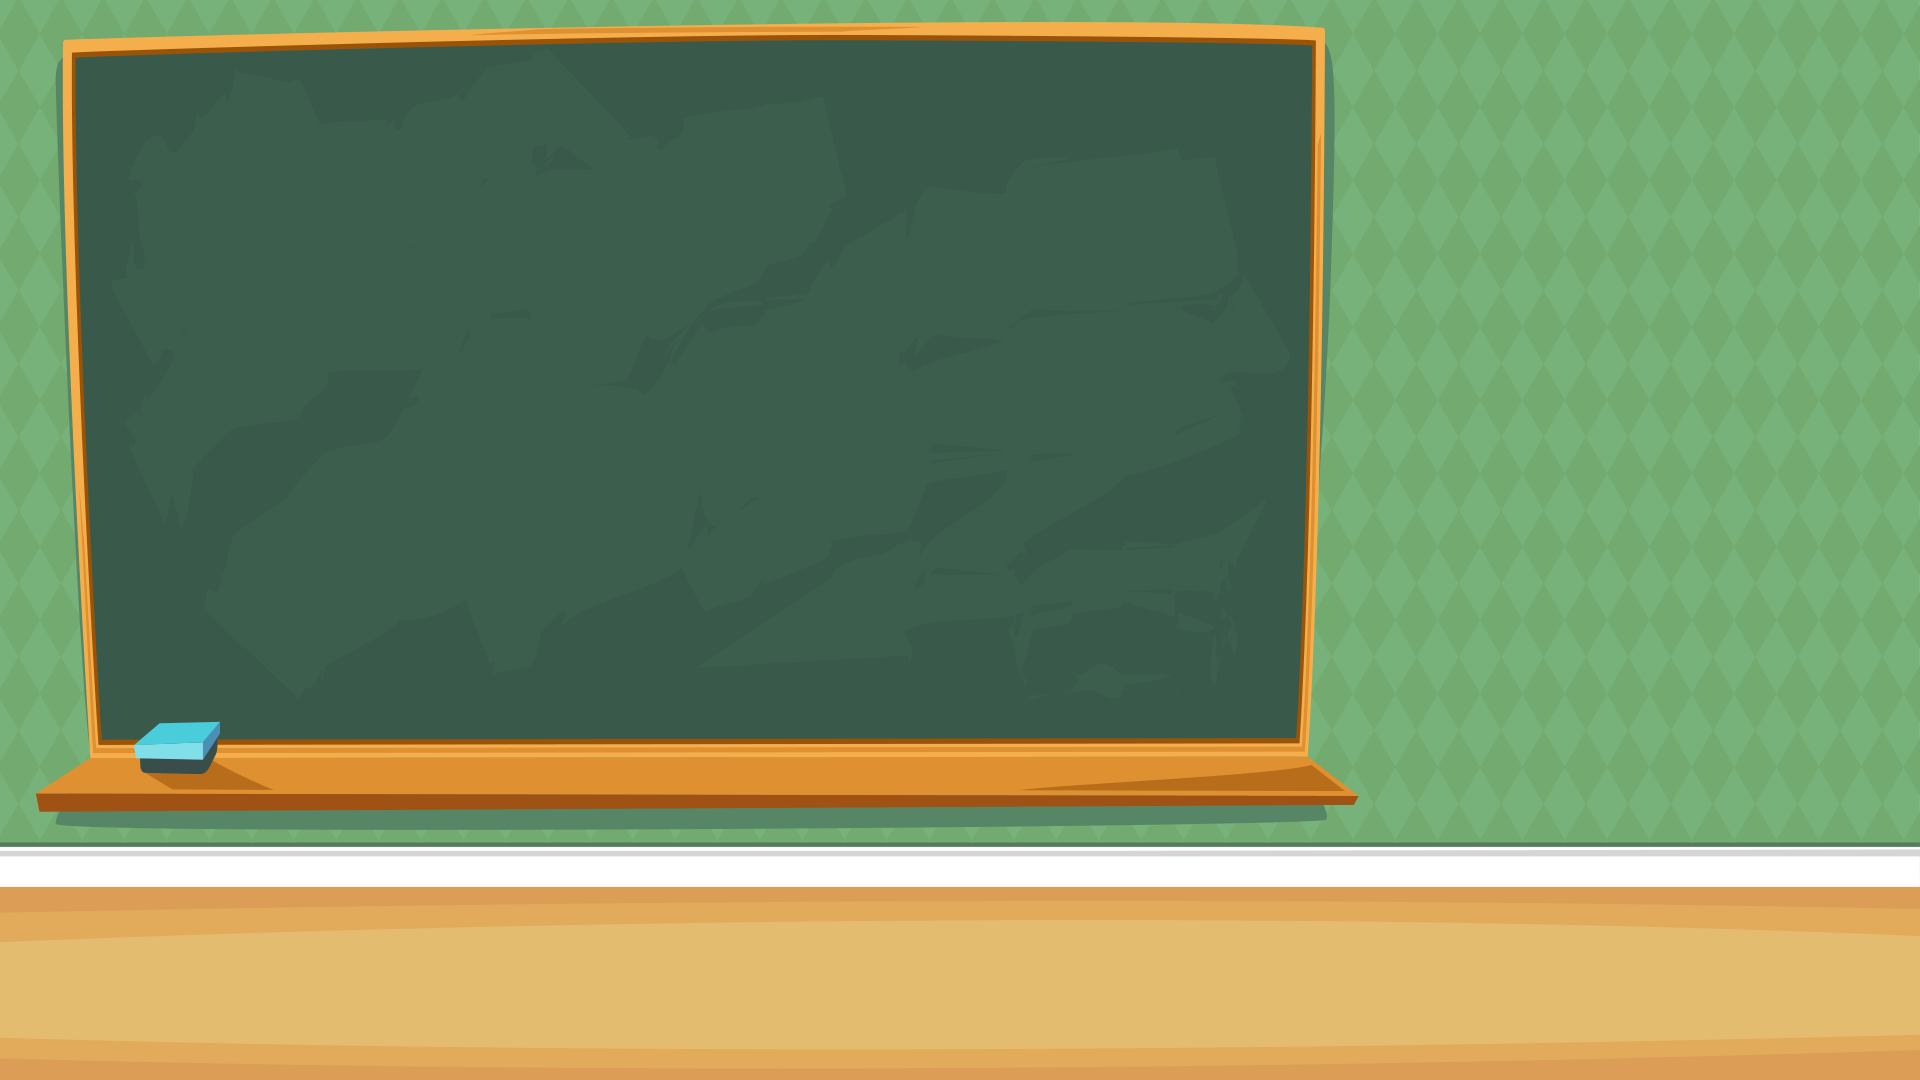
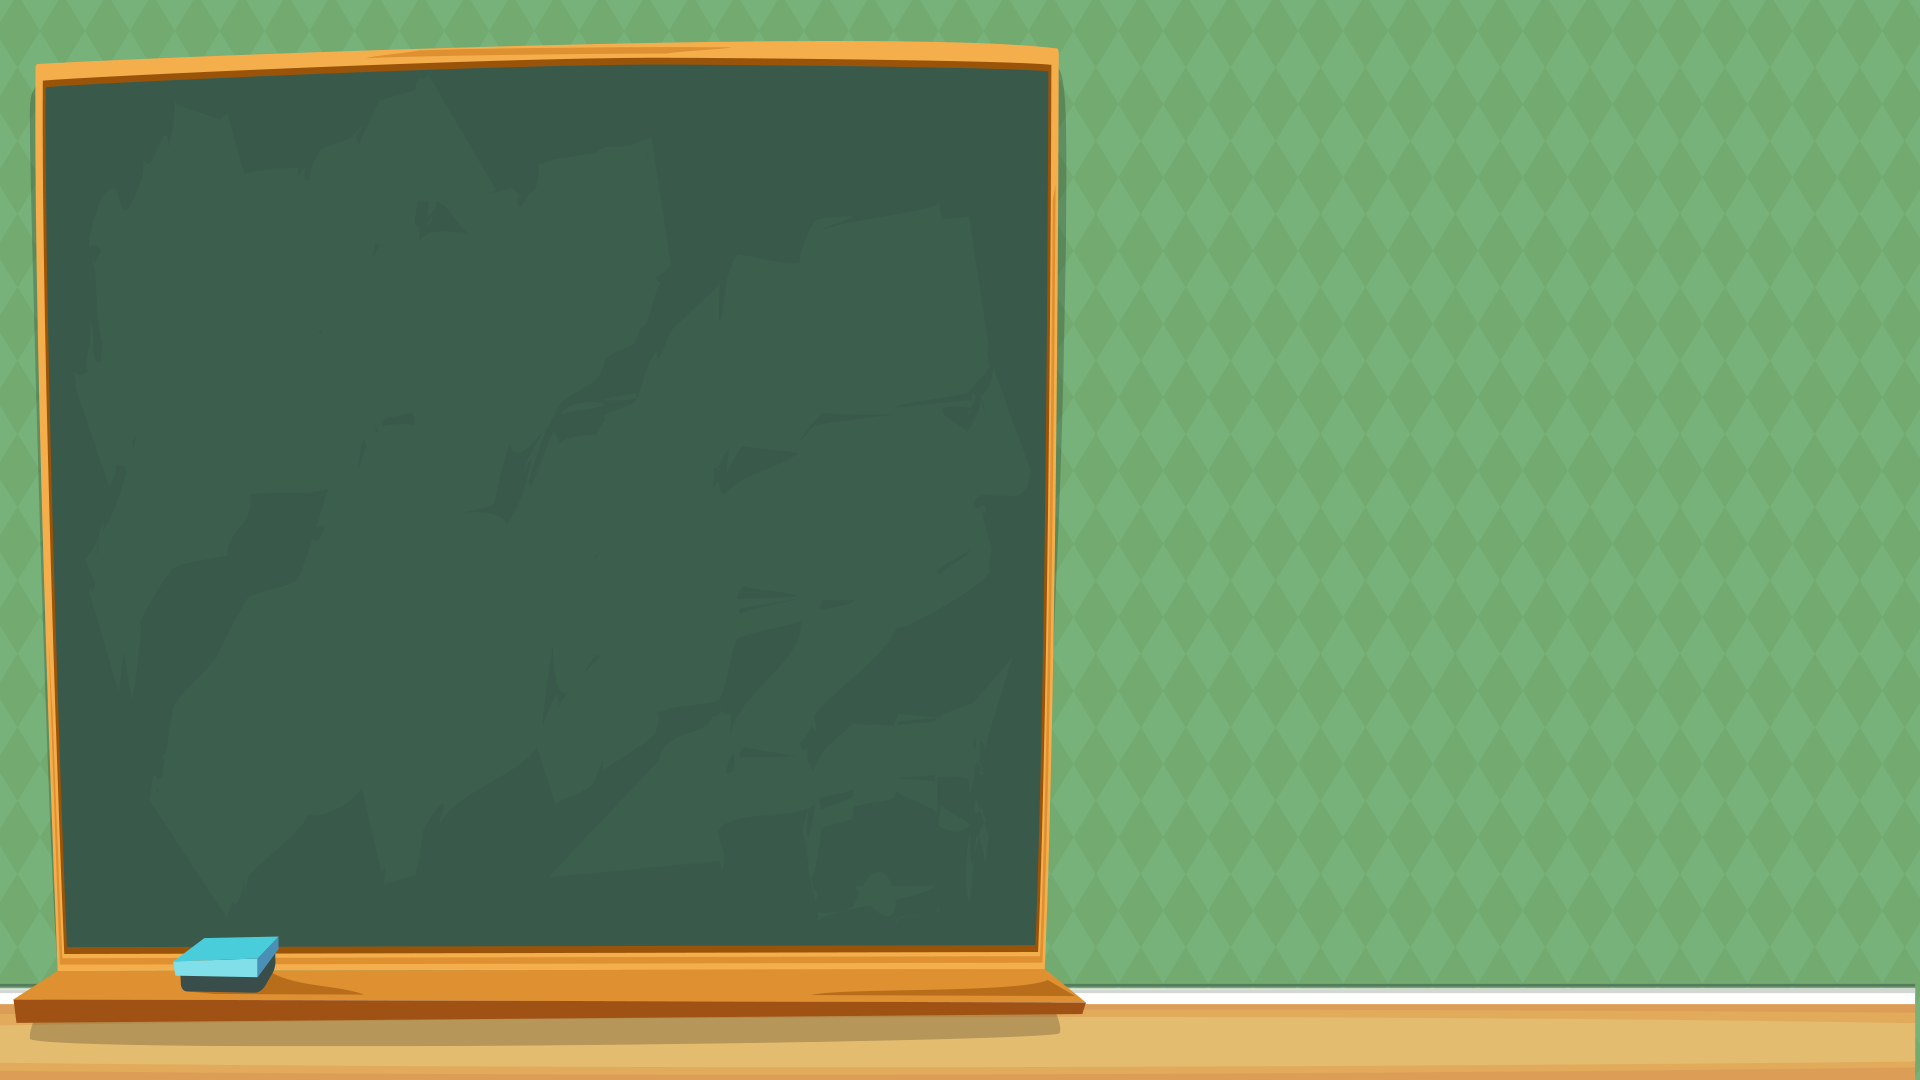
feat: Teaching ModeOne&ModeTwo

diff --git a/src/views/Teaching/ModeOne/Background.vue b/src/views/Teaching/ModeOne/Background.vue
@@ -25,7 +25,7 @@ export default {
   <div
     class="
       global-scene
-      teachingbackground
+      teaching-background
     "
   >
     <img
@@ -33,32 +33,40 @@ export default {
       :src="src.card"
       alt="展示卡"
     >
-    <span
-      v-for="text in src.texts"
-      :key="text"
+    <ul
+      v-if="src.texts && src.texts.length"
+      class="teaching-background__content"
     >
-      {{ text }}
-    </span>
+      <li
+        v-for="text in src.texts"
+        :key="text"
+      >
+        {{ text }}
+      </li>
+    </ul>
   </div>
 </template>
 
-<style lang="postcss">
-.teachingbackground {
+<style lang="postcss" scoped>
+.teaching-background {
   display: flex;
   flex-direction: column;
   justify-content: center;
   align-items: center;
-  padding-right: 850px;
+  padding-right: 920px;
 }
 
-.teachingbackground > img {
-  width: 350px;
-  height: 350px;
-}
-
-.teachingbackground > span {
-  margin-bottom: 30px;
-  font-size: 40px;
-  font-weight: bolder;
+.teaching-background__content {
+  box-sizing: border-box;
+  padding: .8em .25em;
+  width: 600px;
+  border: 10px solid #f28d20;
+  border-radius: 20px;
+  background-color: white;
+  color: #70370d;
+  font-size: 36px;
+  line-height: 1.3em;
+  text-align: center;
+  font-weight: bold;
 }
 </style>

diff --git a/src/assets/course.js b/src/assets/course.js
@@ -28,7 +28,7 @@ export default {
       src: {
         cards: [
           {
-            url: './course/card01/red.png',
+            url: './course/teaching01/red.png',
             text: 'red',
           },
           {
@@ -56,12 +56,40 @@ export default {
         foreground: '',
       },
       src: {
-        card: './course/card01/red.png',
+        card: './course/teaching01/red.png',
 
         texts: [
           'hello',
-          'What color is it?',
+          'What color is it hai hai hai hai?',
           'It is red.',
+        ],
+      },
+    },
+    {
+      type: 'teaching',
+      mode: 2,
+      scene: {
+        background: './course/teaching02/background.png',
+        foreground: '',
+      },
+      src: {
+        cards: [
+          {
+            url: './course/teaching01/red.png',
+            text: 'red',
+          },
+          {
+            url: './course/card01/yellow.png',
+            text: 'yellow',
+          },
+          {
+            url: './course/card01/labi.png',
+            text: 'labi',
+          },
+          {
+            url: './course/card01/apple.png',
+            text: 'apple',
+          },
         ],
       },
     },

diff --git a/src/views/Teaching/ModeTwo/Background.vue b/src/views/Teaching/ModeTwo/Background.vue
@@ -1,0 +1,42 @@
+<script>
+/**
+ * @overview 音乐场景 - 后景
+ *
+ * @author huojinzhao
+ */
+
+export default {
+  name: 'LearnBackgroundModeTwo',
+
+  props: {
+    src: {
+      type: Object,
+      required: true,
+    },
+  },
+};
+</script>
+
+<template>
+  <div
+    class="
+      global-scene
+      global-card-container
+      teaching-background
+    "
+  >
+    <AppBackgroundCard
+      v-for="item in src.cards"
+      :key="item.url"
+      :card="item.url"
+      :text="item.text"
+      :is-transparent="true"
+    />
+  </div>
+</template>
+
+<style lang="postcss" scoped>
+.teaching-background {
+
+}
+</style>

diff --git a/src/views/Teaching/index.vue b/src/views/Teaching/index.vue
@@ -6,12 +6,14 @@
  */
 
 import ModeOne from './ModeOne';
+import ModeTwo from './ModeTwo';
 
 export default {
   name: 'ViewTeaching',
 
   components: {
     ...ModeOne,
+    ...ModeTwo,
   },
 
   props: {

diff --git a/src/style/base.css b/src/style/base.css
@@ -27,6 +27,15 @@ button {
   cursor: pointer;
 }
 
+ul {
+  padding: 0;
+  margin: 0;
+}
+
+li {
+  list-style: none;
+}
+
 button[disabled],
 img[type="button"][disabled] {
   filter: grayscale(60%);

diff --git a/src/views/Teaching/ModeTwo/index.js b/src/views/Teaching/ModeTwo/index.js
@@ -1,0 +1,7 @@
+import Background from './Background';
+import Foreground from './Foreground';
+
+export default {
+  BackgroundModeTwo: Background,
+  ForegroundModeTwo: Foreground,
+};

diff --git a/src/utils/native.js b/src/utils/native.js
@@ -31,5 +31,5 @@ export const equipmentInform = (data) => {
       window.JavascriptBridge.equipmentInform
     );
 
-  fn && fn(data);
+  fn && fn(JSON.stringify(data));
 };

diff --git a/src/views/Teaching/ModeTwo/Foreground.vue b/src/views/Teaching/ModeTwo/Foreground.vue
@@ -1,6 +1,6 @@
 <script>
 /**
- * @overview 教学场景 - 一图多文
+ * @overview 教学场景 - 多图多文
  *
  * @author huojinzhao
  */
